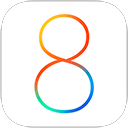
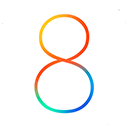
Lower bar

diff --git a/index.html b/index.html
@@ -35,35 +35,35 @@
 				<div class="w3-quarter">
 					<div class="w3-card-0" align="center">
 						<div class="w3-image">
-						<img src="img/ios8.png" alt="ios 8">
+						<img src="img/ios8.png" alt="ios 8" style="margin:3px">
 						</div>
-						<div class="w3-container" >
+						<div class="w3-container w3-teal" >
 							<p>Support for iOS 8 and Above</p>
 						</div>
 					</div>
 				</div>
 				<div class="w3-quarter">
 					<div class="w3-card-0" align="center">
-						<img src="img/swift.png" alt="swift">
-						<div class="w3-container" >
+						<img src="img/swift.png" alt="swift" style="margin:3px">
+						<div class="w3-container w3-orange" >
 							<p>Coded in Swift!</p>
 						</div>
 					</div>
 				</div>
 				<div class="w3-quarter">
-					<div class="w3-card-0" align="center">
+					<div class="w3-card-0 " align="center">
 						<div class="w3-image">
-							<img src="img/cloudkit.png" alt="cloudkit">
+							<img src="img/cloudkit.png" alt="cloudkit" style="margin:3px">
 						</div>
-						<div class="w3-container" >
+						<div class="w3-container w3-blue-grey" >
 							<p>Never loose a data with CloudKit</p>
 						</div>
 					</div>
 				</div>
 				<div class="w3-quarter">
 					<div class="w3-card-0" align="center">
-						<img src="img/mapkit.png" alt="mapkit">
-						<div class="w3-container" >
+						<img src="img/mapkit.png" alt="mapkit" style="margin:3px">
+						<div class="w3-container w3-yellow" >
 							<p>Simple interface with MapKit</p>
 						</div>
 					</div>
